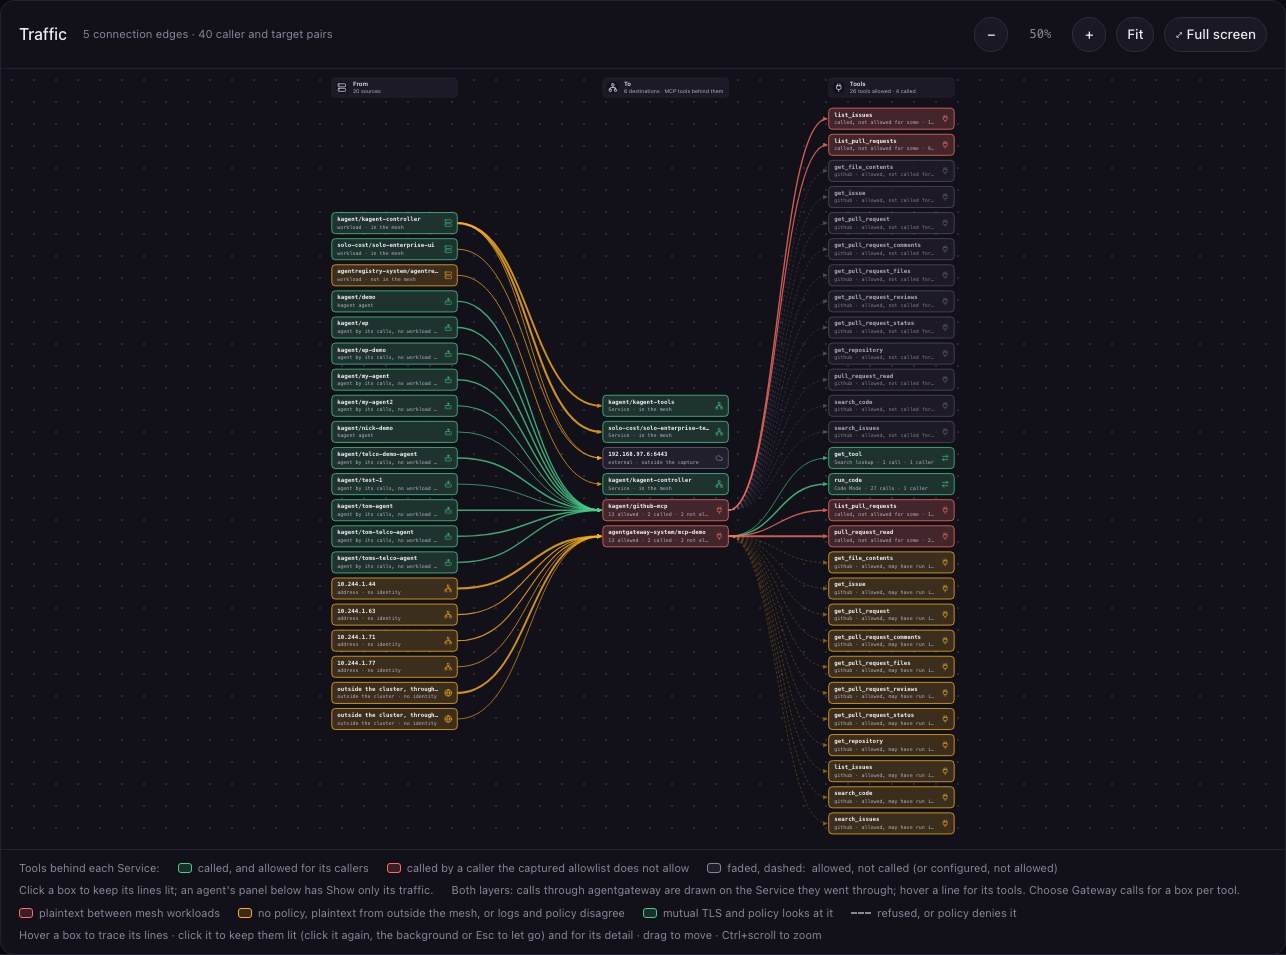
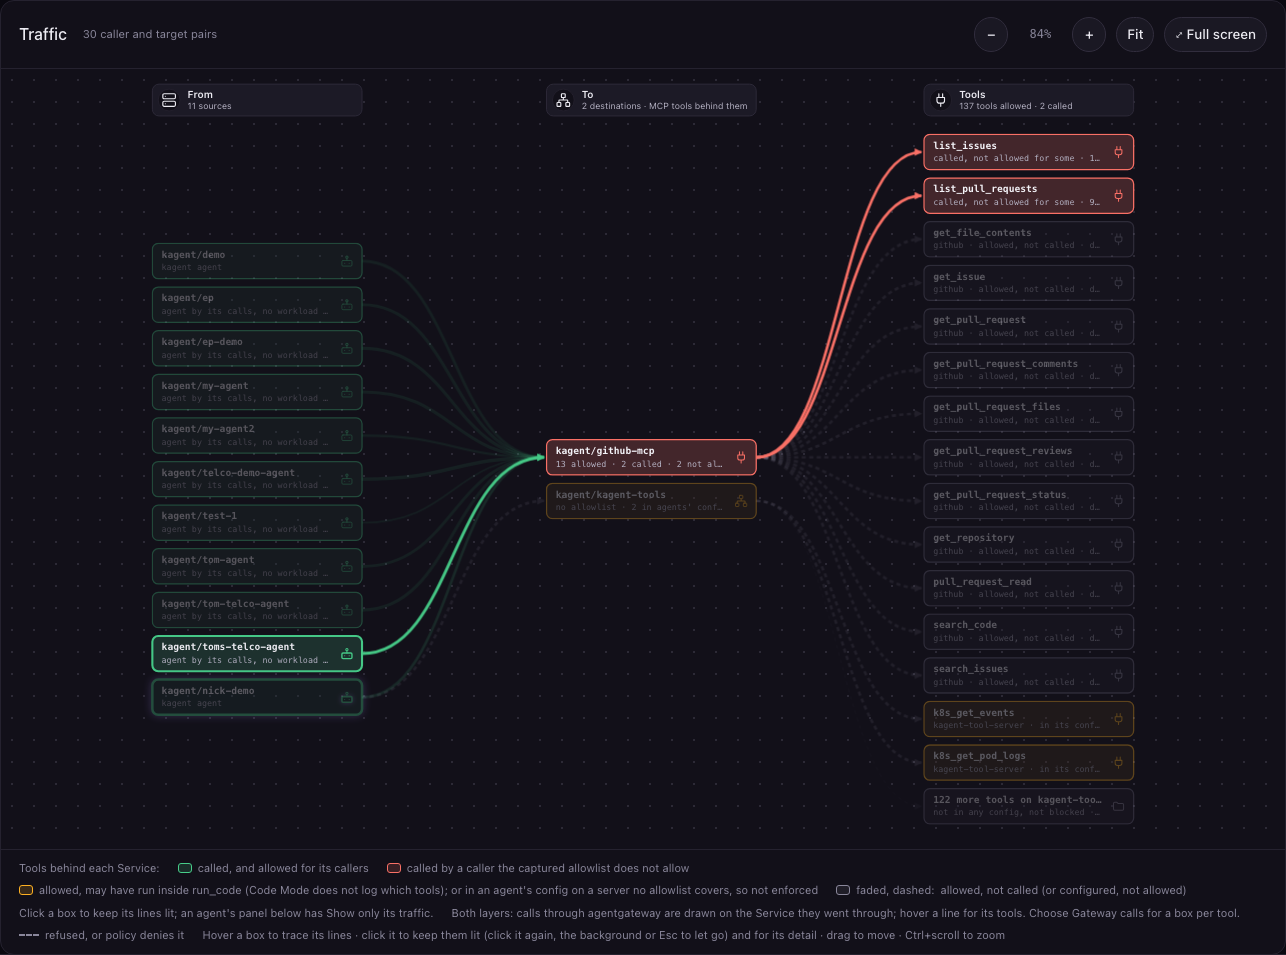
Tools: an agent's own tool list on a server no allowlist covers reads as in its config, not enforced (and the rest not blocked), not allowed; a new finding, An agent's tool list is not enforced, names the agent, the server and what to add

diff --git a/web/traffic.js b/web/traffic.js
@@ -708,8 +708,13 @@ function tfMap(d, a, netE, gwE0, nodes, callers, targets, layer) {
           const y = per.get(svc + '|' + name) || {calls: 0, callers: new Set()};
           const allowed = guarded ? (t.allowedFor || []).length > 0 : true;
           const refusedBy = guarded && y.calls ? [...y.callers].filter(c => !taAllowed(t, whoOf(c))) : [];
-          const state = y.calls ? (refusedBy.length ? (allowed ? 'called, not allowed for some' : 'called, not allowed') : 'called') : allowed && codeCalls ? 'allowed, may have run in run_code' : allowed ? 'allowed, not called' : (t.configuredOn || []).length ? 'configured, not allowed' : 'not allowed';
-          if (allowed) sum.allowed++;
+          const cfgOn = (t.configuredOn || []).length > 0;
+          const state = y.calls ? (refusedBy.length ? (allowed ? 'called, not allowed for some' : 'called, not allowed') : guarded ? 'called' : 'called, no allowlist') : allowed && codeCalls ? 'allowed, may have run in run_code'
+            : !guarded ? (cfgOn ? 'in its config, not enforced' : 'not in any config, not blocked') : allowed ? 'allowed, not called' : cfgOn ? 'configured, not allowed' : 'not allowed';
+          if (allowed && guarded) sum.allowed++;
+          if (!guarded) sum.openTools = (sum.openTools || 0) + 1;
+          if (cfgOn) sum.configured = (sum.configured || 0) + 1;
+          if (!guarded) sum.open = true;
           if (y.calls) sum.called++;
           if (refusedBy.length) sum.red++;
           if (!showTool(y.calls > 0, allowed, (t.configuredOn || []).length > 0)) continue;
@@ -719,26 +724,26 @@ function tfMap(d, a, netE, gwE0, nodes, callers, targets, layer) {
           const cl = [...y.callers].map(c => callers.get(c)?.label || c);
           const risk = refusedBy.length ? 'red' : y.calls ? 'green' : allowed && codeCalls ? 'amber' : 'grey';
           const who = guarded ? (t.allowedFor || []).length ? `Allowed for ${t.allowedFor.join(', ')} by ${(t.policies || []).map(p => p.namespace + '/' + p.name).join(', ')}` : 'The allowlist gives it to nobody' : `No allowlist on ${srv}: every caller may call it`;
-          const inCfg = (t.configuredOn || []).length ? ` · in the config of ${t.configuredOn.map(lastPartJS).join(', ')}` : '';
-          far.push({id, order: y.calls ? 0 : inCfg ? 1.5 : 2, label: name, sub: y.calls ? `${state} · ${fbPlural(y.calls, 'call')} · ${fbPlural(cl.length, 'caller')}` : `${lastPartJS(srv)} · ${state}${inCfg || (allowed && guarded ? ` for ${fbPlural((t.allowedFor || []).length, 'caller')}` : '')}`, risk, icon: 'plug', cls: y.calls || (allowed && codeCalls) ? '' : 'rg-unusednode',
+          const inCfg = cfgOn ? ` · ${t.configuredOn.map(lastPartJS).join(', ')}` : '';
+          far.push({id, order: y.calls ? 0 : inCfg ? 1.5 : 2, label: name, sub: y.calls ? `${state} · ${fbPlural(y.calls, 'call')} · ${fbPlural(cl.length, 'caller')}` : `${lastPartJS(srv)} · ${state}${inCfg || (allowed && guarded ? ` for ${fbPlural((t.allowedFor || []).length, 'caller')}` : '')}`, risk: !guarded && cfgOn && !y.calls ? 'amber' : risk, icon: 'plug', cls: y.calls || (allowed && codeCalls) || (!guarded && cfgOn) ? '' : 'rg-unusednode',
             tip: `${name} on ${srv}, through ${svcLabel(svc)}\n${state}${y.calls ? `: ${num(y.calls)} calls by ${cl.join(', ')}` : ''}${refusedBy.length ? `\nNot allowed for ${refusedBy.map(c => callers.get(c)?.label || c).join(', ')} by the captured allowlist` : ''}\n${who}${(t.configuredOn || []).length ? `\nIn the configuration of ${t.configuredOn.join(', ')}` : ''}${t.description ? '\n' + t.description : ''}\nClick for its callers and who may call it`});
           ge.push({id: 'svctl:' + id, from: svc, to: id, by: [...new Set([...y.callers, ...(cfgd || [])])], risk, dash: !y.calls, cls: y.calls ? 'fb-gw' : 'rg-unused', w: y.calls ? 1.2 + 3 * Math.log(1 + y.calls) / Math.log(1 + maxT) : 1, tip: `${svcLabel(svc)} → ${name}: ${state}`});
         }
         // Many unused tools on one server (a kagent server lists them all) fold into one box.
         if (idle.length > 20) {
           const id = 'svcf:' + svc + '|' + srv;
-          far.push({id, order: 3, label: `${fbPlural(idle.length, 'more tool')} on ${lastPartJS(srv)}`, sub: 'allowed, not called · click to open up', risk: 'grey', icon: 'folder', cls: 'rg-unusednode', tip: idle.map(t => t.name).join('\n')});
+          far.push({id, order: 3, label: `${fbPlural(idle.length, 'more tool')} on ${lastPartJS(srv)}`, sub: `${guarded ? 'allowed, not called' : 'not in any config, not blocked'} · click to open up`, risk: 'grey', icon: 'folder', cls: 'rg-unusednode', tip: idle.map(t => t.name).join('\n')});
           ge.push({id: 'svctl:' + id, from: svc, to: id, risk: 'grey', dash: true, cls: 'rg-unused', w: 1, tip: `${idle.length} tools on ${srv} no one drawn here called`});
         } else for (const t of idle) {
           const id = 'svct:' + svc + '|' + t.name;
-          far.push({id, order: 2, label: t.name, sub: `${lastPartJS(srv)} · allowed, not called${guarded ? ` for ${fbPlural((t.allowedFor || []).length, 'caller')}` : ''}`, risk: 'grey', icon: 'plug', cls: 'rg-unusednode',
+          far.push({id, order: 2, label: t.name, sub: `${lastPartJS(srv)} · ${guarded ? `allowed, not called for ${fbPlural((t.allowedFor || []).length, 'caller')}` : 'not in any config, not blocked'}`, risk: 'grey', icon: 'plug', cls: 'rg-unusednode',
             tip: `${t.name} on ${srv}\nallowed, not called\n${guarded ? `Allowed for ${(t.allowedFor || []).join(', ')} by ${(t.policies || []).map(p => p.namespace + '/' + p.name).join(', ')}` : `No allowlist on ${srv}: every caller may call it`}${(t.configuredOn || []).length ? `\nIn the configuration of ${t.configuredOn.join(', ')}` : ''}${t.description ? '\n' + t.description : ''}`});
           ge.push({id: 'svctl:' + id, from: svc, to: id, risk: 'grey', dash: true, cls: 'rg-unused', w: 1, tip: `${svcLabel(svc)} → ${t.name}: allowed, not called`});
         }
       }
       svcSum.set(svc, sum);
       const n = R.get(svc);
-      if (n && servers.length) { n.sub = `${num(sum.allowed)} allowed · ${num(sum.called)} called${sum.red ? ` · ${num(sum.red)} not allowed` : ''}`; n.tip += `\nTools on ${servers.join(', ')}: ${fbPlural(sum.allowed, 'tool')} allowed, ${num(sum.called)} called${sum.red ? `, ${num(sum.red)} called by a caller the allowlist does not allow` : ''}`; if (sum.red) n.risk = 'red'; }
+      if (n && servers.length) { n.sub = sum.open ? `no allowlist · ${num(sum.configured || 0)} in agents' config · ${num(sum.called)} called` : `${num(sum.allowed)} allowed · ${num(sum.called)} called${sum.red ? ` · ${num(sum.red)} not allowed` : ''}`; if (sum.open && sum.configured) n.risk = 'amber'; n.tip += `\nTools on ${servers.join(', ')}: ${sum.allowed ? `${fbPlural(sum.allowed, 'tool')} allowed by an allowlist, ` : ''}${sum.openTools ? `${fbPlural(sum.openTools, 'tool')} no allowlist covers (${num(sum.configured || 0)} in agents' config, none enforced), ` : ''}${num(sum.called)} called${sum.red ? `, ${num(sum.red)} called by a caller the allowlist does not allow` : ''}`; if (sum.red) n.risk = 'red'; }
     }
   }
   const maxS = Math.max(1, ...[...onSvc.values()].map(x => x.requests));
@@ -778,7 +783,7 @@ function tfMap(d, a, netE, gwE0, nodes, callers, targets, layer) {
       for (const r of x.rows) { if (!showTool(r.calls > 0, r.allowed, r.configured)) continue; (r.calls || !r.allowed || r.configured || x.rows.length <= 16 || T.fexp['acc:' + x.server] ? shown : idle).push(r); }
       for (const r of shown) {
         const id = 'acc:' + x.server + '/' + r.name;
-        const st = !r.allowed ? 'called, not allowed' : r.calls ? `allowed, called ×${num(r.calls)}` : r.viaCode ? 'allowed, may have run in run_code' : 'allowed, not called';
+        const st = !r.allowed ? 'called, not allowed' : r.calls ? `${r.open ? 'called, no allowlist' : 'allowed, called'} ×${num(r.calls)}` : r.viaCode ? 'allowed, may have run in run_code' : r.open ? (r.configured ? 'in its config, not enforced' : 'not in its config, not blocked') : 'allowed, not called';
         right.push({id, order: r.calls || !r.allowed ? 0 : r.viaCode ? 1 : r.configured ? 1.5 + acc.indexOf(x) / 100 : 2 + acc.indexOf(x) / 100, label: r.name, sub: `${lastPartJS(x.server)} · ${st}`, risk: !r.allowed ? 'red' : r.calls ? 'green' : r.viaCode ? 'amber' : 'grey', icon: 'plug', cls: r.calls || !r.allowed || r.viaCode ? '' : 'rg-unusednode',
           tip: `${r.name} on ${x.server}\n${st}${r.refused ? `, ${num(r.refused)} refused` : ''}${r.configured ? '\nin its own tool list' : ''}${r.description ? '\n' + r.description : ''}\n${x.note}`});
         ge.push({id: 'accl:' + id, from: T.focus, to: id, risk: !r.allowed ? 'red' : r.calls ? 'green' : r.viaCode ? 'amber' : 'grey', dash: !r.calls, cls: r.calls ? 'fb-gw' : 'rg-unused', w: r.calls ? 1.2 + 3 * Math.log(1 + r.calls) / Math.log(1 + maxA) : 1, tip: `${st}: ${r.name}`});
@@ -796,9 +801,9 @@ function tfMap(d, a, netE, gwE0, nodes, callers, targets, layer) {
   }
   const nAcc = acc.reduce((n, x) => n + x.rows.length, 0);
   const toNote = [nAcc ? `${fbPlural(nAcc, 'tool')} it may call or called` : '', nSvc ? fbPlural(nSvc, 'destination') : '', nCalled ? `${num(nCalled)} tools, models or agents called` : far.length ? 'MCP tools behind them' : nOnSvc ? `${num(nOnSvc)} tools on them` : '', ghosts ? `${num(ghosts)} allowed, not used` : ''].filter(Boolean).join(' · ');
-  const svg = fbGraph({left, right, far, edges: ge, sel: T.sel, heads: [['server', 'From', fbPlural(left.length, 'source')], ['network', 'To', toNote], ['plug', 'Tools', (() => { const t = [...svcSum.values()].reduce((m, x) => ({allowed: m.allowed + x.allowed, called: m.called + x.called}), {allowed: 0, called: 0}); return `${fbPlural(t.allowed, 'tool')} allowed · ${num(t.called)} called`; })()]]});
+  const svg = fbGraph({left, right, far, edges: ge, sel: T.sel, heads: [['server', 'From', fbPlural(left.length, 'source')], ['network', 'To', toNote], ['plug', 'Tools', (() => { const t = [...svcSum.values()].reduce((m, x) => ({allowed: m.allowed + x.allowed, open: m.open + (x.openTools || 0), called: m.called + x.called}), {allowed: 0, open: 0, called: 0}); return [`${num(t.allowed)} allowed`, t.open ? `${num(t.open)} no allowlist covers` : '', `${num(t.called)} called`].filter(Boolean).join(' · '); })()]]});
   const legend = (acc.length ? `<span class="muted">Following ${esc(left.find(n => n.id === T.focus)?.label || '')}: a box for every tool it has access to on ${acc.map(x => esc(x.server)).join(', ')}.</span><span><i class="rc-sw green"></i>allowed, called</span><span><i class="rc-sw dash"></i><span class="muted">faded:</span> allowed, not called</span><span><i class="rc-sw red"></i>called, not allowed by the captured allowlist</span>` : '')
-    + (both && !acc.length && far.length ? '<span class="muted">Tools behind each Service:</span><span><i class="rc-sw green"></i>called, and allowed for its callers</span><span><i class="rc-sw red"></i>called by a caller the captured allowlist does not allow</span><span><i class="rc-sw amber"></i>allowed, may have run inside run_code (Code Mode does not log which tools)</span><span><i class="rc-sw grey"></i><span class="muted">faded, dashed:</span> allowed, not called (or configured, not allowed)</span><span class="muted">Click a box to keep its lines lit; an agent\'s panel below has Show only its traffic.</span>' : '')
+    + (both && !acc.length && far.length ? '<span class="muted">Tools behind each Service:</span><span><i class="rc-sw green"></i>called, and allowed for its callers</span><span><i class="rc-sw red"></i>called by a caller the captured allowlist does not allow</span><span><i class="rc-sw amber"></i>allowed, may have run inside run_code (Code Mode does not log which tools); or in an agent\'s config on a server no allowlist covers, so not enforced</span><span><i class="rc-sw grey"></i><span class="muted">faded, dashed:</span> allowed, not called (or configured, not allowed)</span><span class="muted">Click a box to keep its lines lit; an agent\'s panel below has Show only its traffic.</span>' : '')
     + (both && !acc.length && !far.length ? '<span class="muted">Click a box to keep its lines lit. An agent\'s panel below lists every tool it may call, and Show only its traffic draws them.</span>' : '')
     + (both && !acc.length ? '<span class="muted">Both layers: calls through agentgateway are drawn on the Service they went through; hover a line for its tools. Choose Gateway calls for a box per tool.</span>' : '')
     + (T.focus && T.freach && (!acc.length || T.showGhosts) ? '<span><i class="rc-sw dash"></i><span class="muted">faded Services:</span> allowed by policy, not used</span>' : '')
@@ -1249,21 +1254,22 @@ function toolAccess(act, who, server) {
     const t = tools.find(x => x.name === n) || {name: n};
     const allowed = guarded ? taAllowed(t, who) : true;
     const c = calls.get(n) || {calls: 0, refused: 0};
-    return {name: n, allowed, viaCode: allowed && !c.calls && meta.run_code > 0, configured: (t.configuredOn || []).includes(who.label), listed: !!t.declared, calls: c.calls, refused: c.refused, policies: (t.policies || []).map(p => p.namespace + '/' + p.name), description: t.description || ''};
+    return {name: n, allowed, open: !guarded, viaCode: allowed && !c.calls && meta.run_code > 0, configured: (t.configuredOn || []).includes(who.label), listed: !!t.declared, calls: c.calls, refused: c.refused, policies: (t.policies || []).map(p => p.namespace + '/' + p.name), description: t.description || ''};
   }).filter(r => r.allowed || r.calls || r.configured);
   rows.sort((x, y) => (y.allowed - x.allowed) || (y.calls - x.calls) || x.name.localeCompare(y.name));
   const policies = [...new Set(tools.flatMap(t => (t.policies || []).map(p => p.namespace + '/' + p.name)))];
   const n = rows.filter(r => r.allowed).length;
   let note;
   if (guarded) note = n ? `${fbPlural(n, 'tool')}: what the allowlist ${policies.join(', ')} gives ${who.label}.` : `The allowlist ${policies.join(', ')} names no tool for ${who.label}, so it may call none.`;
-  else if (si.hasList) note = `No agentgateway allowlist on ${server}, so ${who.label} may call every tool it lists: ${fbPlural(n, 'tool')}.`;
-  else note = `No agentgateway allowlist on ${server}, so ${who.label} may call every tool it offers. Its tool list is not in the capture (it is outside the cluster, and agentgateway does not log tools/list), so these ${fbPlural(n, 'tool')} are only the ones known from calls, other allowlists and agent configuration; it may offer more.`;
+  else if (si.hasList) note = `No agentgateway allowlist covers ${server}, so nothing enforces which tools ${who.label} calls: it can call all ${fbPlural(n, 'tool')} the server lists, whatever its own configuration says.`;
+  else note = `No agentgateway allowlist covers ${server}, so nothing enforces which tools ${who.label} calls: it can call every tool the server offers, whatever its own configuration says. Its tool list is not in the capture (it is outside the cluster, and agentgateway does not log tools/list), so these ${fbPlural(n, 'tool')} are only the ones known from calls, other allowlists and agent configuration; it may offer more.`;
   if (meta.run_code) note += ` It called run_code ${fbPlural(meta.run_code, 'time')} (Code Mode): agentgateway checks each tool its code calls against the same allowlist, but does not log which, so every allowed tool it did not call directly may have run inside run_code.`;
   if (meta.get_tool) note += ` It looked tools up with get_tool ${fbPlural(meta.get_tool, 'time')} (Search mode); the logs do not say which.`;
   return {server, rows, guarded, allowedN: n, note, meta};
 }
 function taTable(acc) {
   const flag = r => r.viaCode ? '<span class="uz-st tried" title="Code Mode: its run_code calls may have used this tool; the logs do not say">allowed, may have run in run_code</span>' : !r.allowed && r.calls ? '<span class="rc-badge red" title="Called, although the captured allowlist does not name it for this caller: the policy may be newer than the calls">called, not allowed</span>'
+    : r.open && r.configured && !r.calls ? '<span class="uz-st tried" title="In its own configuration; no allowlist enforces it">in its config, not enforced</span>' : r.open && !r.calls ? '<span class="uz-st unused">not in its config, not blocked</span>'
     : r.allowed && r.calls ? '<span class="uz-st used">allowed, called</span>' : r.allowed ? '<span class="uz-st unused">allowed, not called</span>' : '<span class="uz-st tried">configured, not allowed</span>';
   const rows = acc.rows.map(r => `<tr><td class="mono">${esc(r.name)}</td><td>${flag(r)}</td><td class="mono">${r.calls ? `${num(r.calls)}${r.refused ? ` <small class="amber">${num(r.refused)} refused</small>` : ''}` : '<span class="muted">—</span>'}</td>
     <td>${r.configured ? '<span class="green">yes</span>' : '<span class="muted">—</span>'}</td><td class="rc-small muted">${esc(r.description)}</td></tr>`).join('');
@@ -1274,7 +1280,7 @@ function taTable(acc) {
 function taPanel(act, who, servers, title) {
   if (!servers.length) return '';
   return `<section class="panel mt"><div class="panel-head"><h2>${esc(title)}</h2><small class="muted">from the captured agentgateway allowlists, the agent's configuration and its calls</small></div><div class="panel-body">
-    ${servers.map(srv => { const acc = toolAccess(act, who, srv); return `<h3 style="margin:${servers.length > 1 ? '14px' : '0'} 0 6px"><span class="mono">${esc(srv)}</span> <small class="muted">${acc.guarded ? fbPlural(acc.allowedN, 'tool') + ' allowed' : 'no allowlist'}</small></h3>${taTable(acc)}`; }).join('')}</div></section>`;
+    ${servers.map(srv => { const acc = toolAccess(act, who, srv); const nc = acc.rows.filter(r => r.configured).length; return `<h3 style="margin:${servers.length > 1 ? '14px' : '0'} 0 6px"><span class="mono">${esc(srv)}</span> <small class="${acc.guarded ? 'muted' : 'amber'}">${acc.guarded ? fbPlural(acc.allowedN, 'tool') + ' allowed by an allowlist' : `no allowlist: ${nc} in its config, all ${acc.allowedN} callable`}</small></h3>${taTable(acc)}`; }).join('')}</div></section>`;
 }
 
 

diff --git a/internal/reach/activity.go b/internal/reach/activity.go
@@ -920,6 +920,7 @@ func (b *actBuilder) finish(inventory bool) {
 		a.Notes = append(a.Notes, "LLM calls were logged without token counts")
 	}
 	a.Findings = append(a.Findings, b.findings()...)
+	a.Findings = append(a.Findings, b.unenforcedLists()...)
 }
 
 // serverOf matches a called tool to a captured MCP server.
@@ -1528,4 +1529,48 @@ func (b *actBuilder) addSvc(c *cluster, server, host string) string {
 		return "svc:" + sv.id
 	}
 	return ""
+}
+
+// unenforcedLists finds agents whose configuration limits the tools of an MCP
+// server that no agentgateway allowlist covers: the list only filters what
+// the model is offered, and nothing on the wire stops a call to the rest.
+func (b *actBuilder) unenforcedLists() []Finding {
+	guarded := map[string]bool{}
+	total := map[string]int{}
+	cfg := map[string]map[string]int{} // server -> agent -> tools configured
+	for _, t := range b.tools {
+		total[t.Server]++
+		if len(t.AllowedFor) > 0 {
+			guarded[t.Server] = true
+		}
+		for _, who := range t.ConfiguredOn {
+			if cfg[t.Server] == nil {
+				cfg[t.Server] = map[string]int{}
+			}
+			cfg[t.Server][who]++
+		}
+	}
+	var items []FindingItem
+	for _, srv := range sortedKeys(cfg) {
+		if guarded[srv] || srv == "(server not known)" {
+			continue
+		}
+		for _, who := range sortedKeys(cfg[srv]) {
+			n := cfg[srv][who]
+			rest := total[srv] - n
+			note := fmt.Sprintf("its configuration lists %d tool(s) on %s; no agentgateway allowlist covers the server, so nothing stops it calling the rest", n, srv)
+			if rest > 0 {
+				note = fmt.Sprintf("its configuration lists %d of the %d tools %s is known to offer; no agentgateway allowlist covers the server, so nothing stops it calling the other %d", n, total[srv], srv, rest)
+			}
+			items = append(items, FindingItem{Target: who, Class: srv, Access: fmt.Sprintf("%d configured", n), Note: note})
+		}
+	}
+	if len(items) == 0 {
+		return nil
+	}
+	return []Finding{{Severity: "high", Title: "An agent's tool list is not enforced",
+		Detail: "These agents are configured to use only some of an MCP server's tools (kagent toolNames or ALLOWED_TOOLS), but no agentgateway allowlist covers that server. The configuration only filters what the model is offered: a prompt injection or a changed agent can call any tool the server has.",
+		Items:  items,
+		Advice: []string{"Put the server behind agentgateway (an agentgateway waypoint on its Service, or a gateway route) and add a backend.mcp.authorization rule that allows each agent's service account only its configured tools. The Lock down tab of the agent on the Agents tab writes one from what it used."},
+		Source: activityGuide, Docs: "https://docs.solo.io/agentgateway/kubernetes/latest/mcp/mcp-access/"}}
 }

diff --git a/internal/reach/activity_test.go b/internal/reach/activity_test.go
@@ -328,3 +328,18 @@ func TestActivityCodeAndSearchModes(t *testing.T) {
 		t.Fatalf("meta-tool calls are tool calls: %+v", a.Totals)
 	}
 }
+
+// A configured tool list on a server no allowlist covers is a finding; the
+// same list on a server with an allowlist is not.
+func TestActivityUnenforcedToolList(t *testing.T) {
+	a := EvaluateActivity(activityWS(t, "Lists", "list_issues", "get_issue"), nil, "")
+	var f *Finding
+	for i := range a.Findings {
+		if a.Findings[i].Title == "An agent's tool list is not enforced" {
+			f = &a.Findings[i]
+		}
+	}
+	if f == nil || len(f.Items) != 1 || f.Items[0].Target != "kagent/triage" || !strings.Contains(f.Items[0].Note, "1 of the 3 tools") {
+		t.Fatalf("triage lists list_issues on a server with no allowlist: %+v", f)
+	}
+}

diff --git a/docs/site/content/desk/traffic.md b/docs/site/content/desk/traffic.md
@@ -53,7 +53,10 @@ With both layers on, the map has three columns: sources, the Services they reach
 | green, solid | Called, and allowed for every caller that called it (or the server has no allowlist) |
 | red | Called by a caller the allowlist does not allow (`called, not allowed for some` when others are allowed): the policy is probably newer than the calls |
 | amber | Allowed, and the server was reached through Code Mode (`run_code`), whose logs do not say which tools ran: it may have run there |
+| amber, solid | On a server **no allowlist covers**: in an agent's configuration, but not enforced. The Service box says `no allowlist · N in agents' config`, and the other tools read `not in any config, not blocked` |
 | faded, dashed | Allowed, not called; or not allowed at all |
+
+An agent's own tool list (kagent `toolNames`, or `ALLOWED_TOOLS` on a BYO agent) only filters what the model is offered. It is enforced only where an agentgateway allowlist (`backend.mcp.authorization`) covers the server and the agent's calls go through agentgateway (a gateway route or an agentgateway waypoint). When they do not, the Findings panel has **An agent's tool list is not enforced**, with the agent, the server, how many of its tools the list names, and what to add.
 
 An agent's configured MCP servers are drawn even when the capture has no call to them: a dashed line to the Service its own configuration reaches the server at (`MCP_SERVERS_CONFIG`, or a declarative Agent's RemoteMCPServer), and the tools it is configured for or allowed in the Tools column, kept out of the folded box. So an agent given GitHub and Kubernetes SRE tools shows both, even if it only used GitHub.
 

diff --git a/docs/site/content/desk/activity.md b/docs/site/content/desk/activity.md
@@ -67,7 +67,7 @@ The **Tools and models** tab of the Traffic page lists, per MCP server, every to
 | Called | agentgateway request logs (`gen_ai.tool.name`) |
 | Listed | kagent `RemoteMCPServer`, `MCPServer` and `ToolServer` status (`discoveredTools`) |
 | Allowed for | agentgateway MCP authorization rules (`backend.mcp.authorization`, OSS and Enterprise): each `\|\|` clause that names tools (`mcp.tool.name in [...]` or `== "..."`), with the caller it names (`source.identity.serviceAccount`, with `source.identity.namespace` when given, or `jwt.sub`). The server is the MCP target of the backend the rule targets, and a tool spelt with the target prefix (`github_list_issues`) counts as the same tool. |
-| Configured on | A declarative kagent Agent's `toolNames`, and an `ALLOWED_TOOLS` variable (a JSON list) on a BYO agent. With several servers in its `MCP_SERVERS_CONFIG`, a tool goes on the one server known to offer it, or under "(server not known)". |
+| Configured on | Not an enforcement: the agent's own list only filters what the model is offered. A declarative kagent Agent's `toolNames`, and an `ALLOWED_TOOLS` variable (a JSON list) on a BYO agent. With several servers in its `MCP_SERVERS_CONFIG`, a tool goes on the one server known to offer it, or under "(server not known)". |
 
 ![GitHub's tools: called, allowed per service account by an allowlist, and configured on an agent](/images/traffic-tools.png)
 
